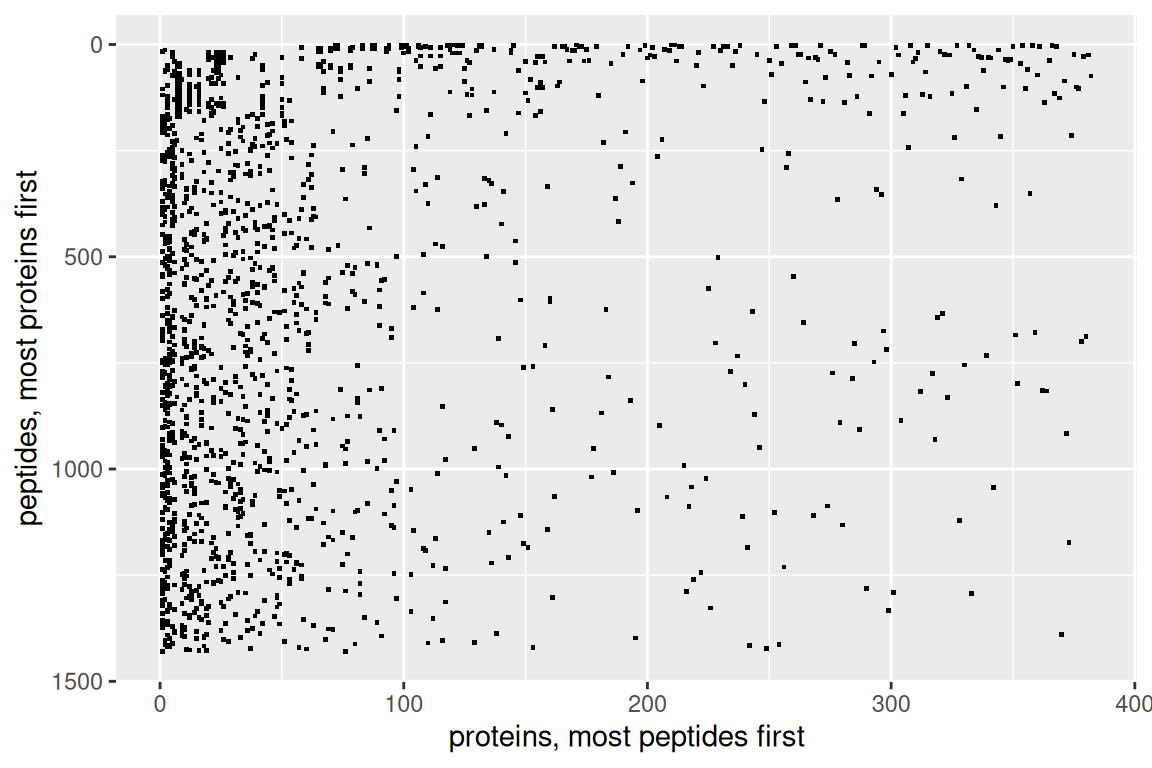
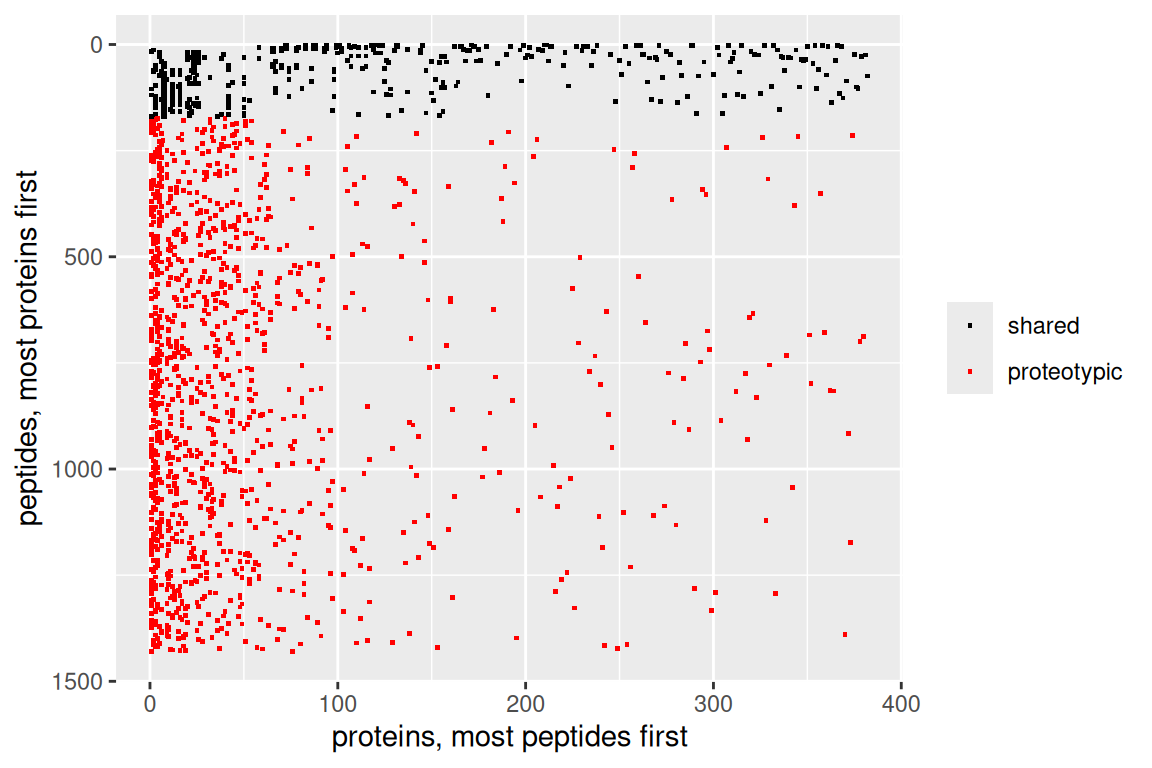
Deploying to gh-pages from @ prolfqua/prozor@ec25b837bb3ac73985c911022214659c0b58070f 🚀

diff --git a/vignettes/PeptideAnnotationwithProzor.html b/vignettes/PeptideAnnotationwithProzor.html
@@ -702,16 +702,28 @@ pre > code.sourceCode > span > a:first-child::before { text-decoration: underlin
 <div class="cell">
 <div class="code-copy-outer-scaffold"><div class="sourceCode cell-code" id="cb9"><pre class="sourceCode r code-with-copy"><code class="sourceCode r"><span id="cb9-1"><a href="#cb9-1" aria-hidden="true" tabindex="-1"></a>precursors <span class="ot">&lt;-</span> <span class="fu">distinct</span>(id_results, peptideModSeq, precursorCharge, peptideSeq)</span>
 <span id="cb9-2"><a href="#cb9-2" aria-hidden="true" tabindex="-1"></a></span>
-<span id="cb9-3"><a href="#cb9-3" aria-hidden="true" tabindex="-1"></a><span class="co"># peptide protein matches as points; rows and columns sorted by their number of matches</span></span>
-<span id="cb9-4"><a href="#cb9-4" aria-hidden="true" tabindex="-1"></a>plot_matches <span class="ot">&lt;-</span> <span class="cf">function</span>(annotation) {</span>
-<span id="cb9-5"><a href="#cb9-5" aria-hidden="true" tabindex="-1"></a>  pairs <span class="ot">&lt;-</span> <span class="fu">distinct</span>(annotation, <span class="at">peptide =</span> <span class="fu">factor</span>(peptideSeq), <span class="at">protein =</span> <span class="fu">factor</span>(protein_id))</span>
-<span id="cb9-6"><a href="#cb9-6" aria-hidden="true" tabindex="-1"></a>  peptide_rank <span class="ot">&lt;-</span> <span class="fu">rank</span>(<span class="sc">-</span><span class="fu">tabulate</span>(pairs<span class="sc">$</span>peptide, <span class="fu">nlevels</span>(pairs<span class="sc">$</span>peptide)), <span class="at">ties.method =</span> <span class="st">"first"</span>)</span>
-<span id="cb9-7"><a href="#cb9-7" aria-hidden="true" tabindex="-1"></a>  protein_rank <span class="ot">&lt;-</span> <span class="fu">rank</span>(<span class="sc">-</span><span class="fu">tabulate</span>(pairs<span class="sc">$</span>protein, <span class="fu">nlevels</span>(pairs<span class="sc">$</span>protein)), <span class="at">ties.method =</span> <span class="st">"first"</span>)</span>
-<span id="cb9-8"><a href="#cb9-8" aria-hidden="true" tabindex="-1"></a>  <span class="fu">ggplot</span>(<span class="fu">data.frame</span>(<span class="at">peptide =</span> peptide_rank[pairs<span class="sc">$</span>peptide], <span class="at">protein =</span> protein_rank[pairs<span class="sc">$</span>protein])) <span class="sc">+</span></span>
-<span id="cb9-9"><a href="#cb9-9" aria-hidden="true" tabindex="-1"></a>    <span class="fu">geom_point</span>(<span class="fu">aes</span>(<span class="at">x =</span> protein, <span class="at">y =</span> peptide), <span class="at">shape =</span> <span class="dv">15</span>, <span class="at">size =</span> <span class="fl">0.5</span>) <span class="sc">+</span></span>
-<span id="cb9-10"><a href="#cb9-10" aria-hidden="true" tabindex="-1"></a>    <span class="fu">scale_y_reverse</span>() <span class="sc">+</span></span>
-<span id="cb9-11"><a href="#cb9-11" aria-hidden="true" tabindex="-1"></a>    <span class="fu">labs</span>(<span class="at">x =</span> <span class="st">"proteins, most peptides first"</span>, <span class="at">y =</span> <span class="st">"peptides, most proteins first"</span>)</span>
-<span id="cb9-12"><a href="#cb9-12" aria-hidden="true" tabindex="-1"></a>}</span></code></pre></div><button title="Copy to Clipboard" class="code-copy-button"><i class="bi"></i></button></div>
+<span id="cb9-3"><a href="#cb9-3" aria-hidden="true" tabindex="-1"></a><span class="co"># peptide protein matches as points; rows and columns sorted by their number of matches,</span></span>
+<span id="cb9-4"><a href="#cb9-4" aria-hidden="true" tabindex="-1"></a><span class="co"># proteotypic peptides (one protein) in red</span></span>
+<span id="cb9-5"><a href="#cb9-5" aria-hidden="true" tabindex="-1"></a>plot_matches <span class="ot">&lt;-</span> <span class="cf">function</span>(annotation) {</span>
+<span id="cb9-6"><a href="#cb9-6" aria-hidden="true" tabindex="-1"></a>  pairs <span class="ot">&lt;-</span> <span class="fu">distinct</span>(annotation, <span class="at">peptide =</span> <span class="fu">factor</span>(peptideSeq), <span class="at">protein =</span> <span class="fu">factor</span>(protein_id))</span>
+<span id="cb9-7"><a href="#cb9-7" aria-hidden="true" tabindex="-1"></a>  peptide_matches <span class="ot">&lt;-</span> <span class="fu">tabulate</span>(pairs<span class="sc">$</span>peptide, <span class="fu">nlevels</span>(pairs<span class="sc">$</span>peptide))</span>
+<span id="cb9-8"><a href="#cb9-8" aria-hidden="true" tabindex="-1"></a>  peptide_rank <span class="ot">&lt;-</span> <span class="fu">rank</span>(<span class="sc">-</span>peptide_matches, <span class="at">ties.method =</span> <span class="st">"first"</span>)</span>
+<span id="cb9-9"><a href="#cb9-9" aria-hidden="true" tabindex="-1"></a>  protein_rank <span class="ot">&lt;-</span> <span class="fu">rank</span>(<span class="sc">-</span><span class="fu">tabulate</span>(pairs<span class="sc">$</span>protein, <span class="fu">nlevels</span>(pairs<span class="sc">$</span>protein)), <span class="at">ties.method =</span> <span class="st">"first"</span>)</span>
+<span id="cb9-10"><a href="#cb9-10" aria-hidden="true" tabindex="-1"></a>  matches <span class="ot">&lt;-</span> <span class="fu">data.frame</span>(</span>
+<span id="cb9-11"><a href="#cb9-11" aria-hidden="true" tabindex="-1"></a>    <span class="at">peptide =</span> peptide_rank[pairs<span class="sc">$</span>peptide],</span>
+<span id="cb9-12"><a href="#cb9-12" aria-hidden="true" tabindex="-1"></a>    <span class="at">protein =</span> protein_rank[pairs<span class="sc">$</span>protein],</span>
+<span id="cb9-13"><a href="#cb9-13" aria-hidden="true" tabindex="-1"></a>    <span class="at">proteotypic =</span> peptide_matches[pairs<span class="sc">$</span>peptide] <span class="sc">==</span> <span class="dv">1</span></span>
+<span id="cb9-14"><a href="#cb9-14" aria-hidden="true" tabindex="-1"></a>  )</span>
+<span id="cb9-15"><a href="#cb9-15" aria-hidden="true" tabindex="-1"></a>  <span class="fu">ggplot</span>(matches) <span class="sc">+</span></span>
+<span id="cb9-16"><a href="#cb9-16" aria-hidden="true" tabindex="-1"></a>    <span class="fu">geom_point</span>(<span class="fu">aes</span>(<span class="at">x =</span> protein, <span class="at">y =</span> peptide, <span class="at">colour =</span> proteotypic), <span class="at">shape =</span> <span class="dv">15</span>, <span class="at">size =</span> <span class="fl">0.5</span>) <span class="sc">+</span></span>
+<span id="cb9-17"><a href="#cb9-17" aria-hidden="true" tabindex="-1"></a>    <span class="fu">scale_colour_manual</span>(</span>
+<span id="cb9-18"><a href="#cb9-18" aria-hidden="true" tabindex="-1"></a>      <span class="at">name =</span> <span class="cn">NULL</span>,</span>
+<span id="cb9-19"><a href="#cb9-19" aria-hidden="true" tabindex="-1"></a>      <span class="at">values =</span> <span class="fu">c</span>(<span class="st">`</span><span class="at">FALSE</span><span class="st">`</span> <span class="ot">=</span> <span class="st">"black"</span>, <span class="st">`</span><span class="at">TRUE</span><span class="st">`</span> <span class="ot">=</span> <span class="st">"red"</span>),</span>
+<span id="cb9-20"><a href="#cb9-20" aria-hidden="true" tabindex="-1"></a>      <span class="at">labels =</span> <span class="fu">c</span>(<span class="st">`</span><span class="at">FALSE</span><span class="st">`</span> <span class="ot">=</span> <span class="st">"shared"</span>, <span class="st">`</span><span class="at">TRUE</span><span class="st">`</span> <span class="ot">=</span> <span class="st">"proteotypic"</span>)</span>
+<span id="cb9-21"><a href="#cb9-21" aria-hidden="true" tabindex="-1"></a>    ) <span class="sc">+</span></span>
+<span id="cb9-22"><a href="#cb9-22" aria-hidden="true" tabindex="-1"></a>    <span class="fu">scale_y_reverse</span>() <span class="sc">+</span></span>
+<span id="cb9-23"><a href="#cb9-23" aria-hidden="true" tabindex="-1"></a>    <span class="fu">labs</span>(<span class="at">x =</span> <span class="st">"proteins, most peptides first"</span>, <span class="at">y =</span> <span class="st">"peptides, most proteins first"</span>)</span>
+<span id="cb9-24"><a href="#cb9-24" aria-hidden="true" tabindex="-1"></a>}</span></code></pre></div><button title="Copy to Clipboard" class="code-copy-button"><i class="bi"></i></button></div>
 </div>
 <section id="protein-inference-for-database-with-trembl-identifiers" class="level2">
 <h2 class="anchored" data-anchor-id="protein-inference-for-database-with-trembl-identifiers">Protein Inference for database with TrEMBL identifiers</h2>
@@ -779,7 +791,7 @@ pre > code.sourceCode > span > a:first-child::before { text-decoration: underlin
 </tr>
 </tbody>
 </table>
-<p>Peptide protein matches for the All database. Rows - peptides, columns - proteins, point - peptide protein match.</p>
+<p>Peptide protein matches for the All database. Rows - peptides, columns - proteins, point - peptide protein match, red - proteotypic peptide.</p>
 </div>
 <div class="code-copy-outer-scaffold"><div class="sourceCode cell-code" id="cb11"><pre class="sourceCode r code-with-copy"><code class="sourceCode r"><span id="cb11-1"><a href="#cb11-1" aria-hidden="true" tabindex="-1"></a><span class="fu">c</span>(</span>
 <span id="cb11-2"><a href="#cb11-2" aria-hidden="true" tabindex="-1"></a>  <span class="at">peptides =</span> <span class="fu">n_distinct</span>(annotated_precursors<span class="sc">$</span>peptideSeq),</span>
@@ -794,7 +806,7 @@ pre > code.sourceCode > span > a:first-child::before { text-decoration: underlin
 <div class="quarto-figure quarto-figure-center">
 <figure class="figure">
 <p><img src="PeptideAnnotationwithProzor_files/figure-html/greedy-trembl-1.png" class="img-fluid figure-img" width="576"></p>
-<figcaption>Peptide protein matches for the All database. Rows - peptides, columns - proteins, point - peptide protein match.</figcaption>
+<figcaption>Peptide protein matches for the All database. Rows - peptides, columns - proteins, point - peptide protein match, red - proteotypic peptide.</figcaption>
 </figure>
 </div>
 </div>
@@ -824,7 +836,7 @@ pre > code.sourceCode > span > a:first-child::before { text-decoration: underlin
 <div class="quarto-figure quarto-figure-center">
 <figure class="figure">
 <p><img src="PeptideAnnotationwithProzor_files/figure-html/greedy-canonical-1.png" class="img-fluid figure-img" width="576"></p>
-<figcaption>Peptide protein matches for the Canonical database. Rows - peptides, columns - proteins, point - peptide protein match.</figcaption>
+<figcaption>Peptide protein matches for the Canonical database. Rows - peptides, columns - proteins, point - peptide protein match, red - proteotypic peptide.</figcaption>
 </figure>
 </div>
 </div>

diff --git a/NEWS.html b/NEWS.html
@@ -648,6 +648,7 @@ ul.task-list li input[type="checkbox"] {
 <li><code>?create_fgcz_fasta_db</code> gives the memory a build needs, and <code>?greedy_parsimony</code> says that protein groups are formed on the peptides left in each round. <code>pepprot</code> is titled “Precursors of identified peptides”, as it holds no proteins.</li>
 <li>New or runnable examples for <code>create_fgcz_fasta_db()</code>, <code>greedy_to_table()</code>, <code>remove_signal_peptide()</code> and <code>write_fasta()</code>; removed debugging code from examples and vignettes.</li>
 <li>The vignettes use the new names, snake_case code and ggplot2; “Peptide Annotation and Protein Inference” builds again. “Creating Target Decoy Databases” finds the FASTA files as <code>create_fgcz_fasta_db()</code> does, writes to <code>tempdir()</code> and ends with the one-call <code>create_fgcz_fasta_db()</code>.</li>
+<li>“Peptide Annotation and Protein Inference” shows proteotypic peptides in red in the peptide protein match plots.</li>
 <li>The README has an R example and a citation section.</li>
 </ul>
 </section>

diff --git a/vignettes/CreatingDecoyDB.html b/vignettes/CreatingDecoyDB.html
@@ -551,7 +551,7 @@ attr(,"class")
    database_dir : /home/runner/work/_temp/Library/prozor/p1000_db1_example
    contaminants : 499 sequences
         rev_lab : REV_
-     output_dir : /tmp/RtmpE9B8Rt
+     output_dir : /tmp/RtmpIzhgIX
      FASTA name : p1000_db1_example_d
 FASTA file name : p1000_db1_example_d_20261125.fasta
      annotation : AA|p1000_db1_example|20180118 Example: Homo sapiens UniProt entries (Swiss-Prot and TrEMBL, with isoforms) matched by the peptides of extdata/IDResults.txt.gz
